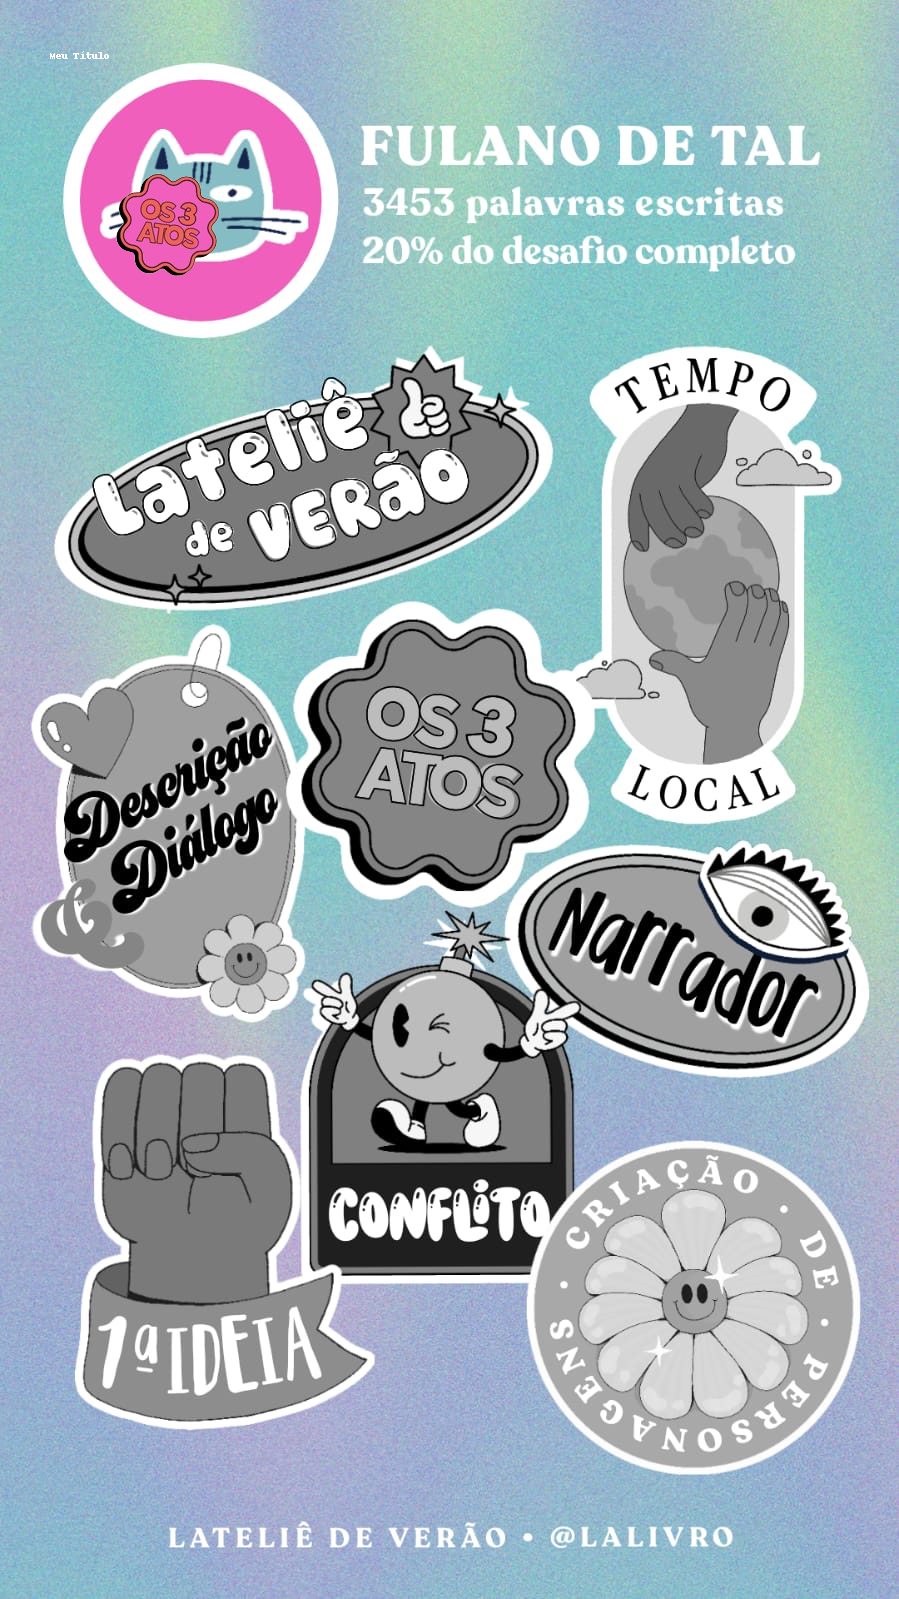
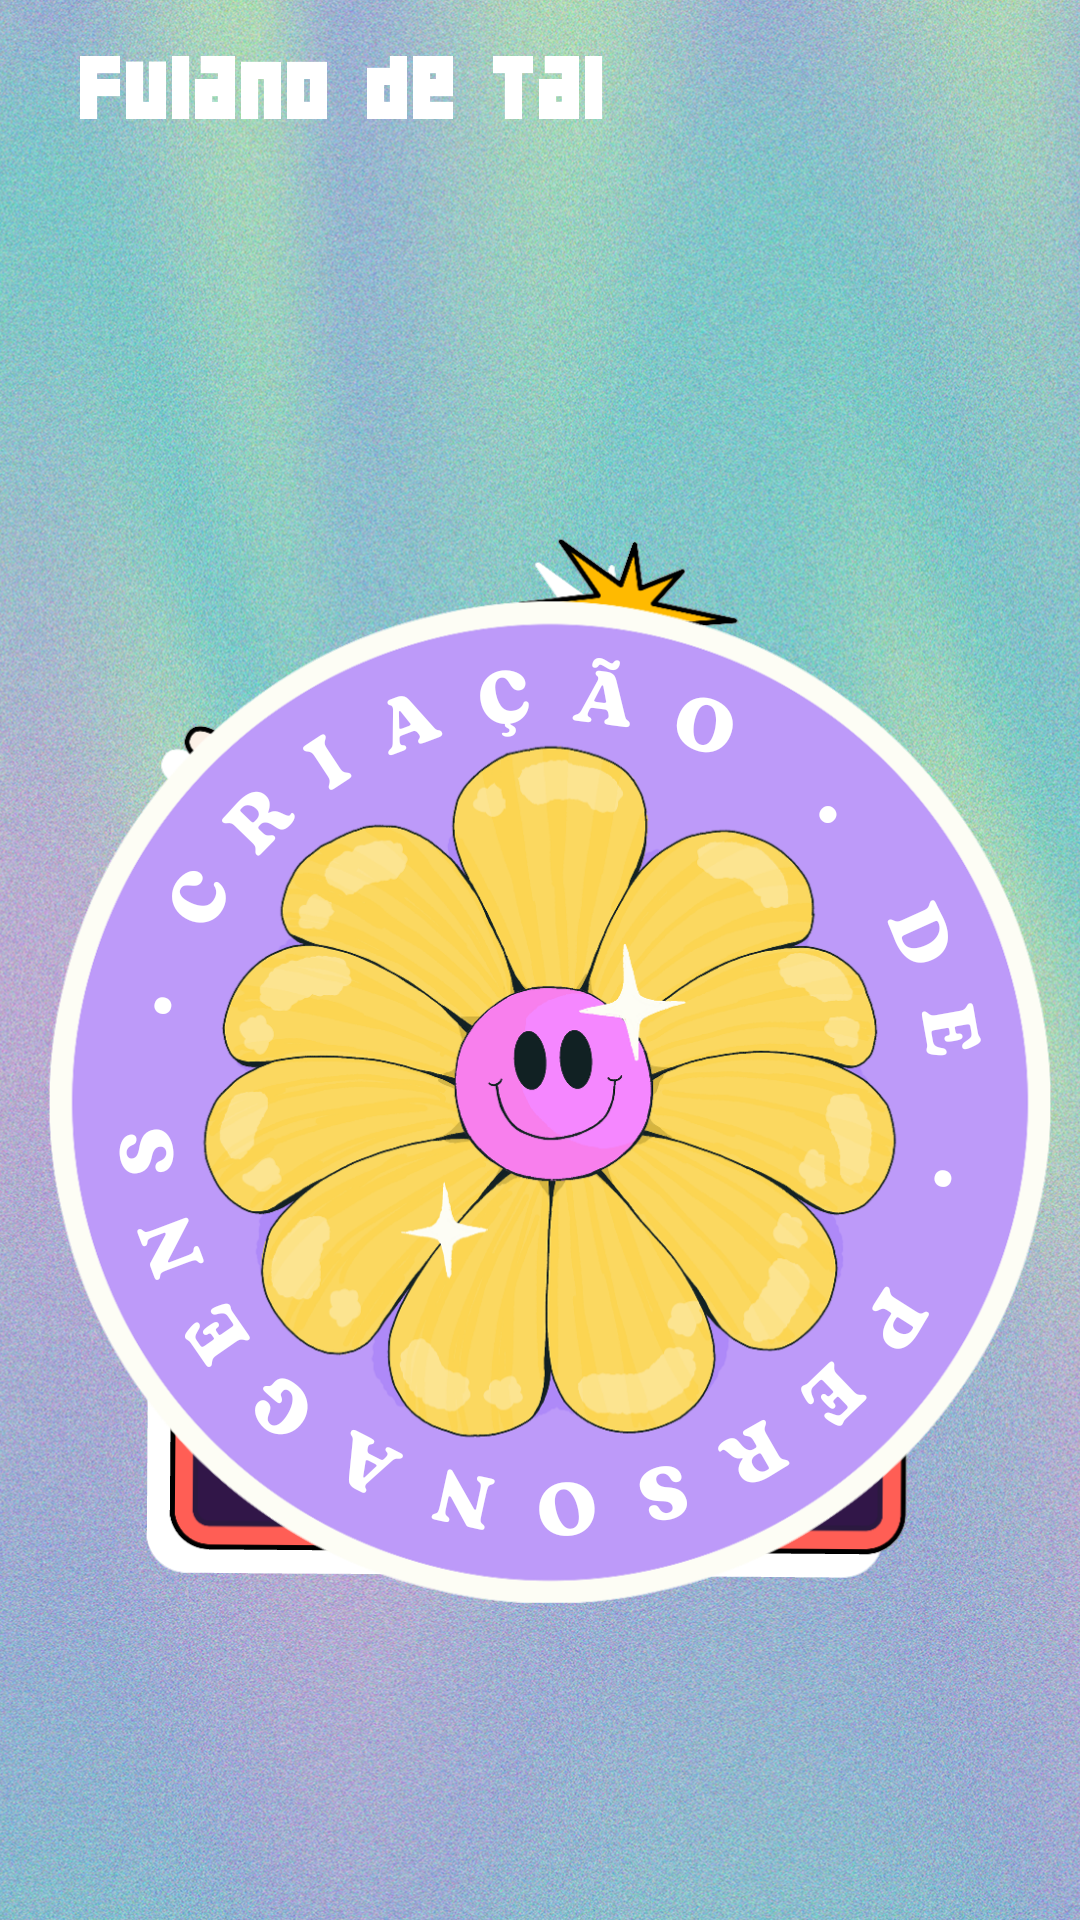
fix: método insert_title não pode retornar nada

diff --git a/criacao_imagem.py b/criacao_imagem.py
@@ -18,14 +18,15 @@ class ImageCreation:
         background.paste(sticker, position, sticker)
         return
 
-    def create_object(self, background: Image.Image):
+    def create_object(self, background: Image.Image) -> ImageDraw.ImageDraw:
         return ImageDraw.Draw(background)
 
     def get_font(self, path: str, size: int):
         return ImageFont.truetype(path, size)
 
     def insert_title(self, object, position: tuple, text, font):
-        return object.text(position, text, fill="white", font=font)
+        object.text(position, text, fill="white", font=font)
+        return
 
     def save(
         self,
@@ -45,3 +46,6 @@ if __name__ == "__main__":
     image.paste_sticker(background, sticker_conflito, (20, 50))
     image.paste_sticker(background, sticker_criacao_personagem, (10, 70))
     object_image = image.create_object(background)
+    font = image.get_font("04font.ttf", 80)
+    image.insert_title(object_image, (80, 50), "Fulano de Tal", font)
+    image.save(background)
